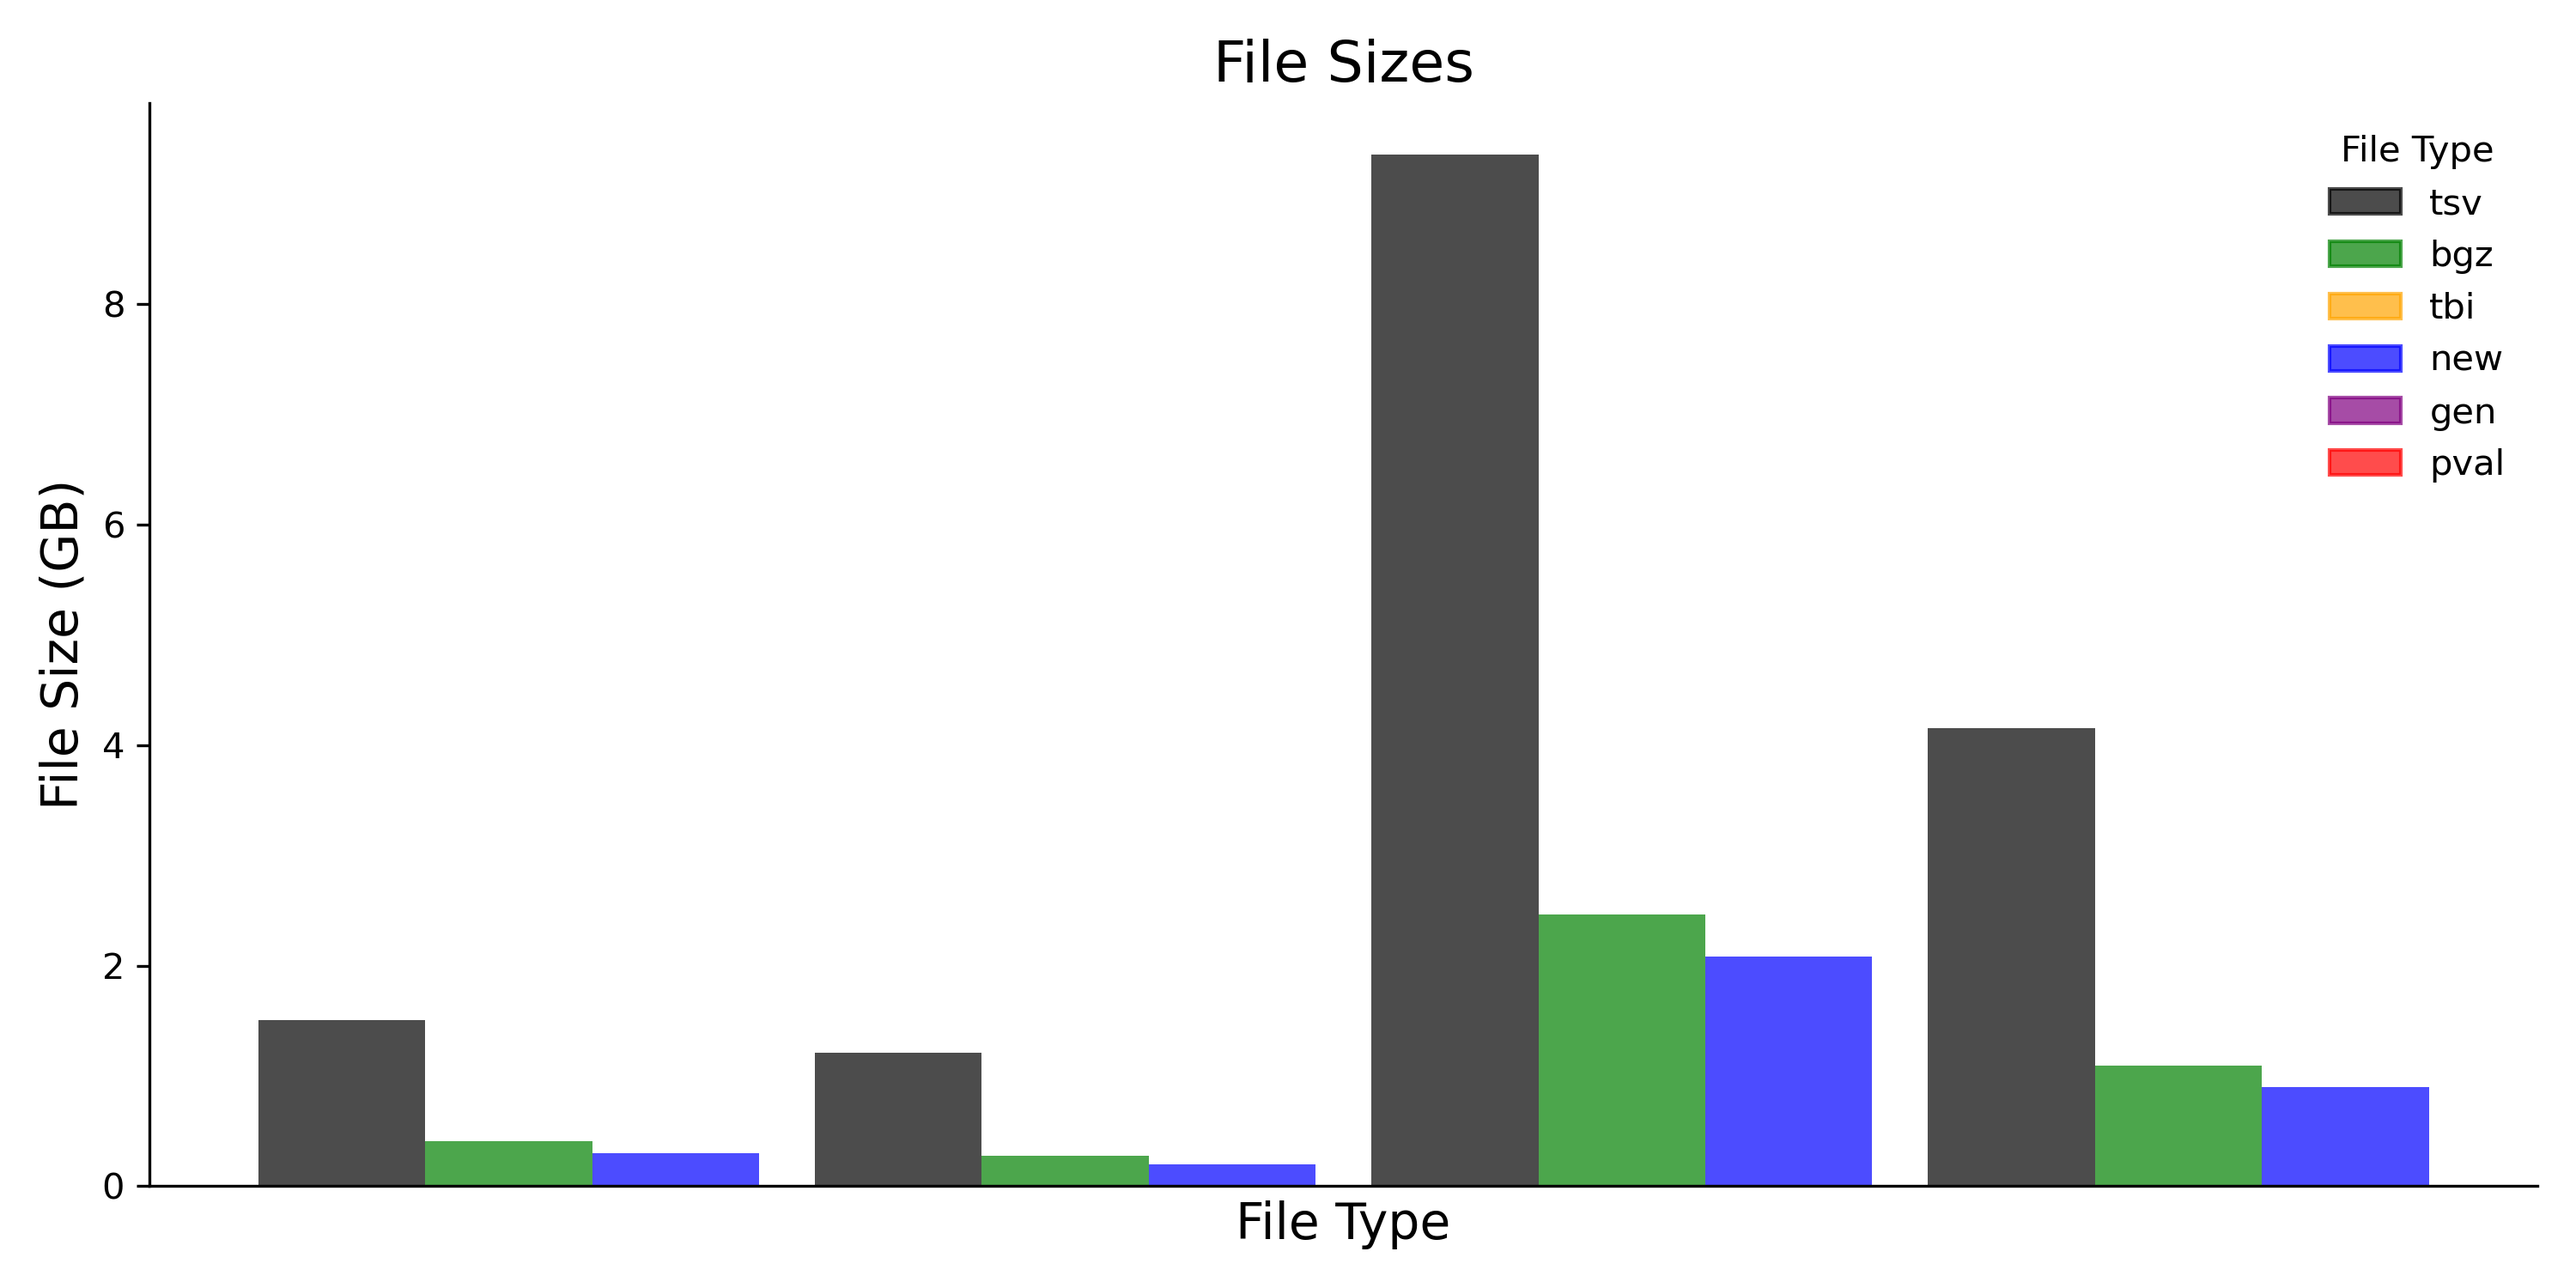
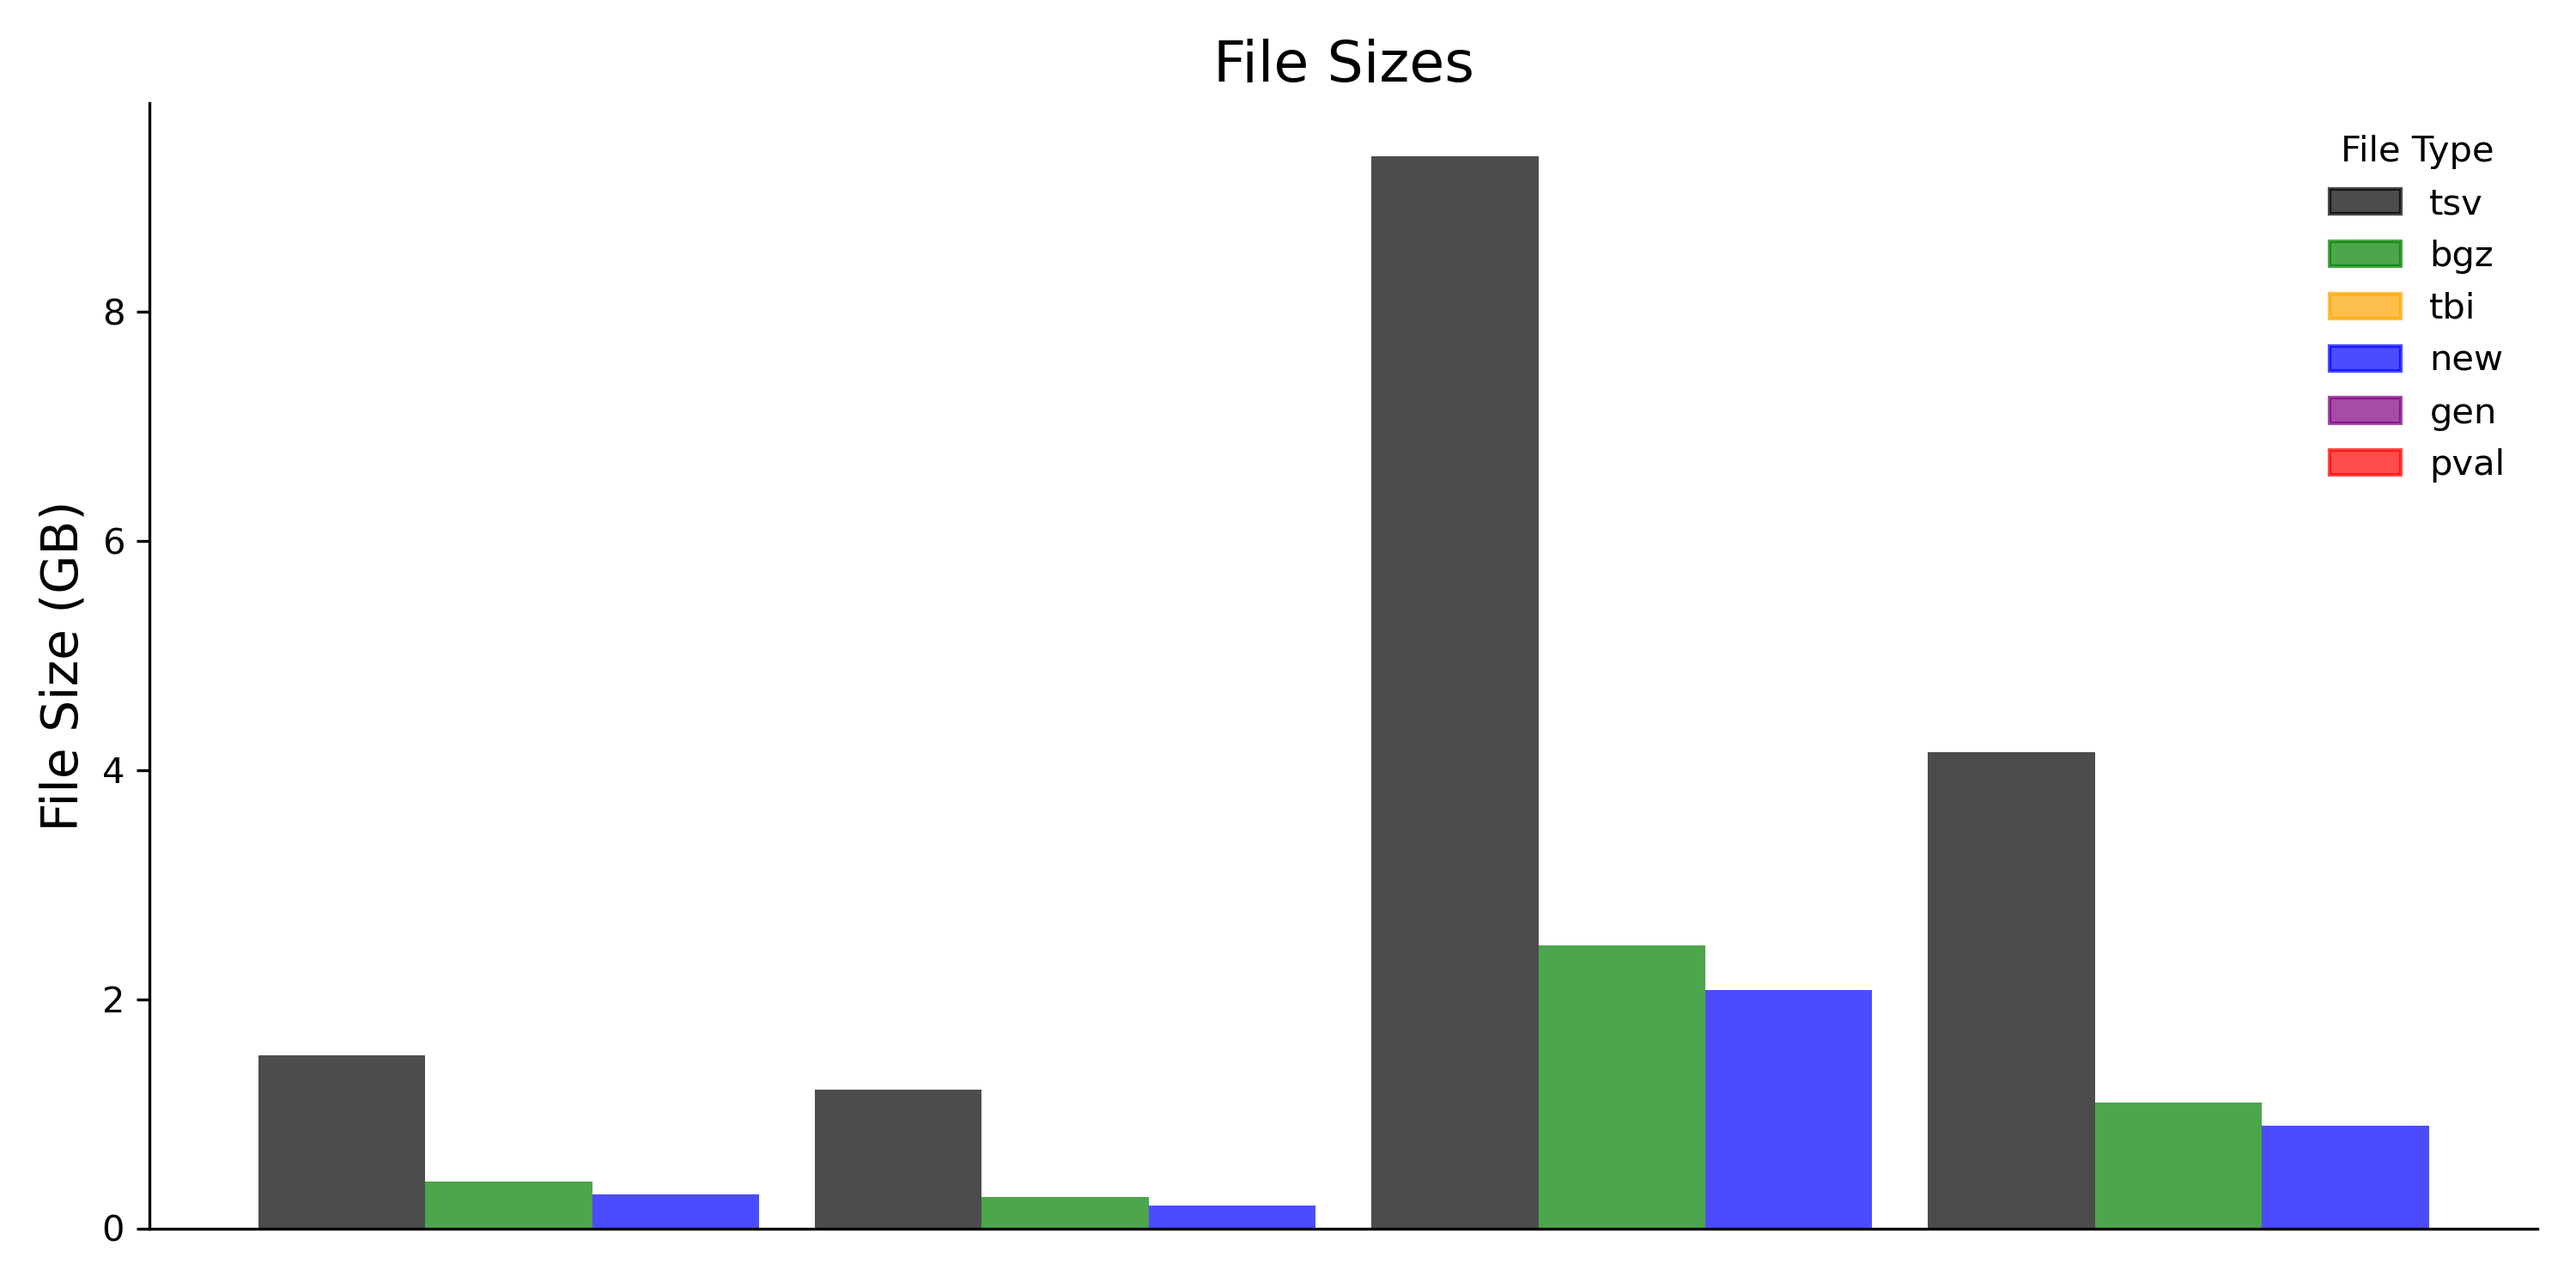
new labels for compare

diff --git a/scripts/python/plotting_scripts/plot_compare.py b/scripts/python/plotting_scripts/plot_compare.py
@@ -201,7 +201,6 @@ def plot_file_sizes(file_sizes,
 
     fig, ax = plt.subplots(1, 1, figsize=(10, 5), dpi=300)
     ax.set_title('File Sizes', fontsize=16)
-    ax.set_xlabel('File Type', fontsize=14)
     ax.set_ylabel('File Size (GB)', fontsize=14)
 
     x_points = range(len(file_sizes.keys()))

diff --git a/README.md b/README.md
@@ -35,26 +35,12 @@ python scripts/python/plotting_scripts/plot_tabix.py
     --results figures/pub_figures/data/short-ukbb-tabix_search_results.csv
     --out figures/pub_figures/png/short-ukbb-
 ```
-Plot tabix search times per gene, colored by bgz file size.
 
 <details>
   
 ![tabix_times](figures/pub_figures/png/short-ukbb-tabix_search_times_hist.png)<br>
-
-</details>
-
-Plot tabix search times by gene size, colored by bgz file size.
-
-<details>
-  
+![tabix_hits](figures/pub_figures/png/short-ukbb-tabix_results_hist.png)<br>
+![tabix_times_hits](figures/pub_figures/png/short-ukbb-tabix_search_times_by_gene_hits.png)<br>
 ![tabix_times_gene_size](figures/pub_figures/png/short-ukbb-tabix_search_times_by_gene_size_scatter.png)<br>
-
-</details>
-
-Plot tabix search results: number of significant hits per file.
-
-<details>
-  
-![tabix_times](figures/pub_figures/png/short-ukbb-tabix_results_hist.png)<br>
 
 </details>
